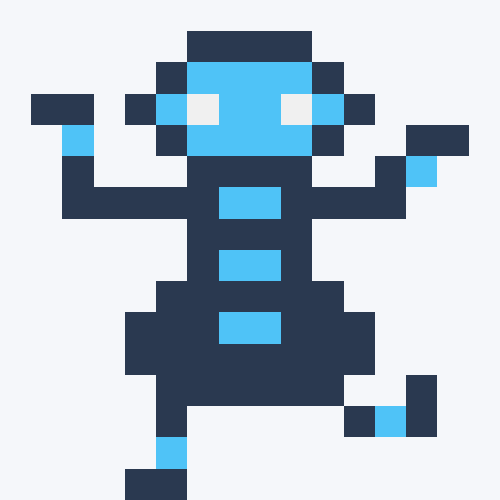
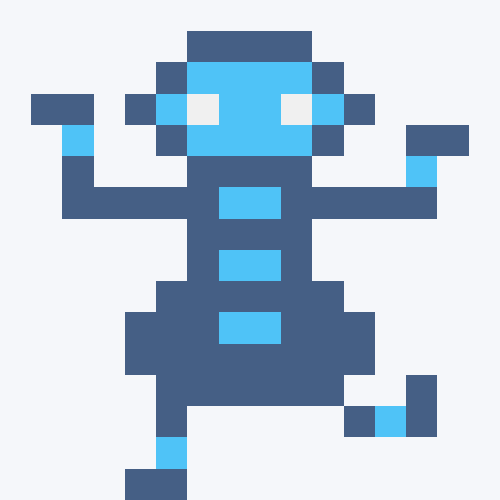
Fix ui

diff --git a/lib/chessboard/css/chessboard-1.0.0.css b/lib/chessboard/css/chessboard-1.0.0.css
@@ -25,11 +25,11 @@
 
 .white-1e1d7 {
   background-color: #f5f7fa; /* light square: near white */
-  color: #2a3950; /* text: dark blue */
+  color: #455f85; /* text: dark blue */
 }
 
 .black-3c85d {
-  background-color: #2a3950; /* dark square: deep blue */
+  background-color: #455f85; /* dark square: deep blue */
   color: #f5f7fa; /* text: light */
 }
 
